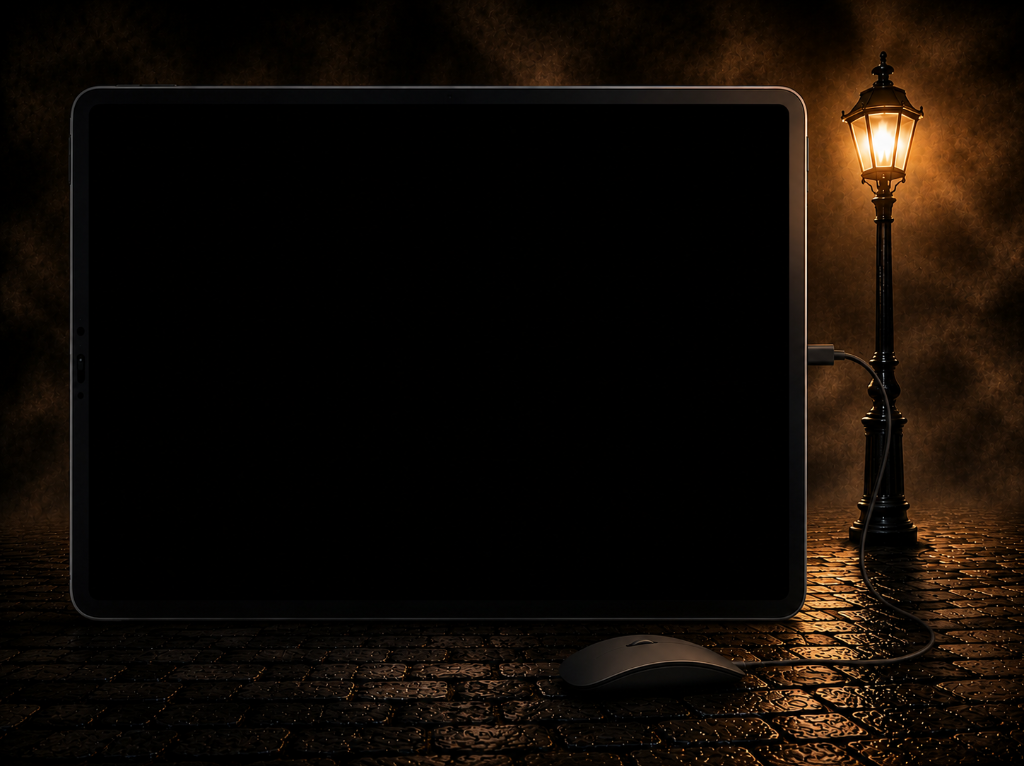
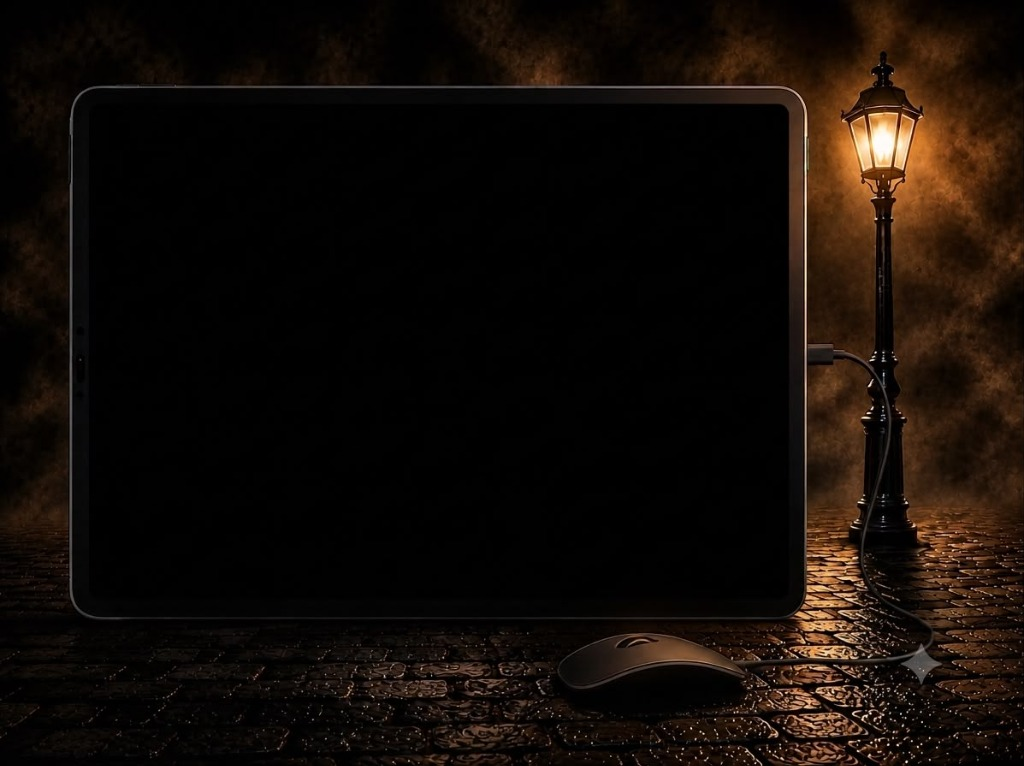
feat: update background image with user aligned mouse-off photo and bump version to v9

diff --git a/src/components/ProjectsStage.tsx b/src/components/ProjectsStage.tsx
@@ -378,7 +378,7 @@ export const ProjectsStage: React.FC = () => {
           >
             <img
               ref={plateRef}
-              src="/ipad-buehne.png?v=8"
+              src="/ipad-buehne.png?v=9"
               alt=""
               onLoad={() => window.dispatchEvent(new Event('resize'))}
               className="block w-full h-auto"
@@ -527,23 +527,6 @@ export const ProjectsStage: React.FC = () => {
                 </div>
               </div>
 
-              {/* Gold Bezel Frame Overlay (Solid Thick Gold Border on the Bezel) */}
-              <div
-                className="absolute pointer-events-none z-45"
-                style={{
-                  left: '-36px',
-                  top: '-29px',
-                  width: `${PANEL.width + 72}px`,
-                  height: `${PANEL.height + 58}px`,
-                  transformOrigin: '36px 29px',
-                  transform,
-                  opacity: transform ? 1 : 0,
-                  border: '28px solid #D4AF37',
-                  borderRadius: '34px',
-                  boxShadow: '0 0 25px rgba(212, 175, 55, 0.45)',
-                }}
-              />
-
               {/* Right Side Project Info Card */}
               <AnimatePresence mode="wait">
                 <motion.div
@@ -552,7 +535,7 @@ export const ProjectsStage: React.FC = () => {
                   animate={{ opacity: 1, y: 0 }}
                   exit={{ opacity: 0, y: -14 }}
                   transition={{ duration: 0.35, ease: [0.16, 1, 0.3, 1] }}
-                  className="absolute right-[1.5cqw] top-1/2 flex w-[23cqw] -translate-y-1/2 flex-col gap-3 border border-[#8C6D4F]/45 bg-[#0A0908]/85 px-[1.8cqw] py-[2.4cqh] backdrop-blur-md"
+                  className="absolute right-[1.5cqw] top-1/2 z-50 flex w-[23cqw] -translate-y-1/2 flex-col gap-3 border border-[#8C6D4F]/45 bg-[#0A0908]/85 px-[1.8cqw] py-[2.4cqh] backdrop-blur-md"
                 >
                   <p className="text-[0.72cqw] font-semibold uppercase tracking-[0.34em] text-[#C99E5D]">
                     {project.number} / Projekt
